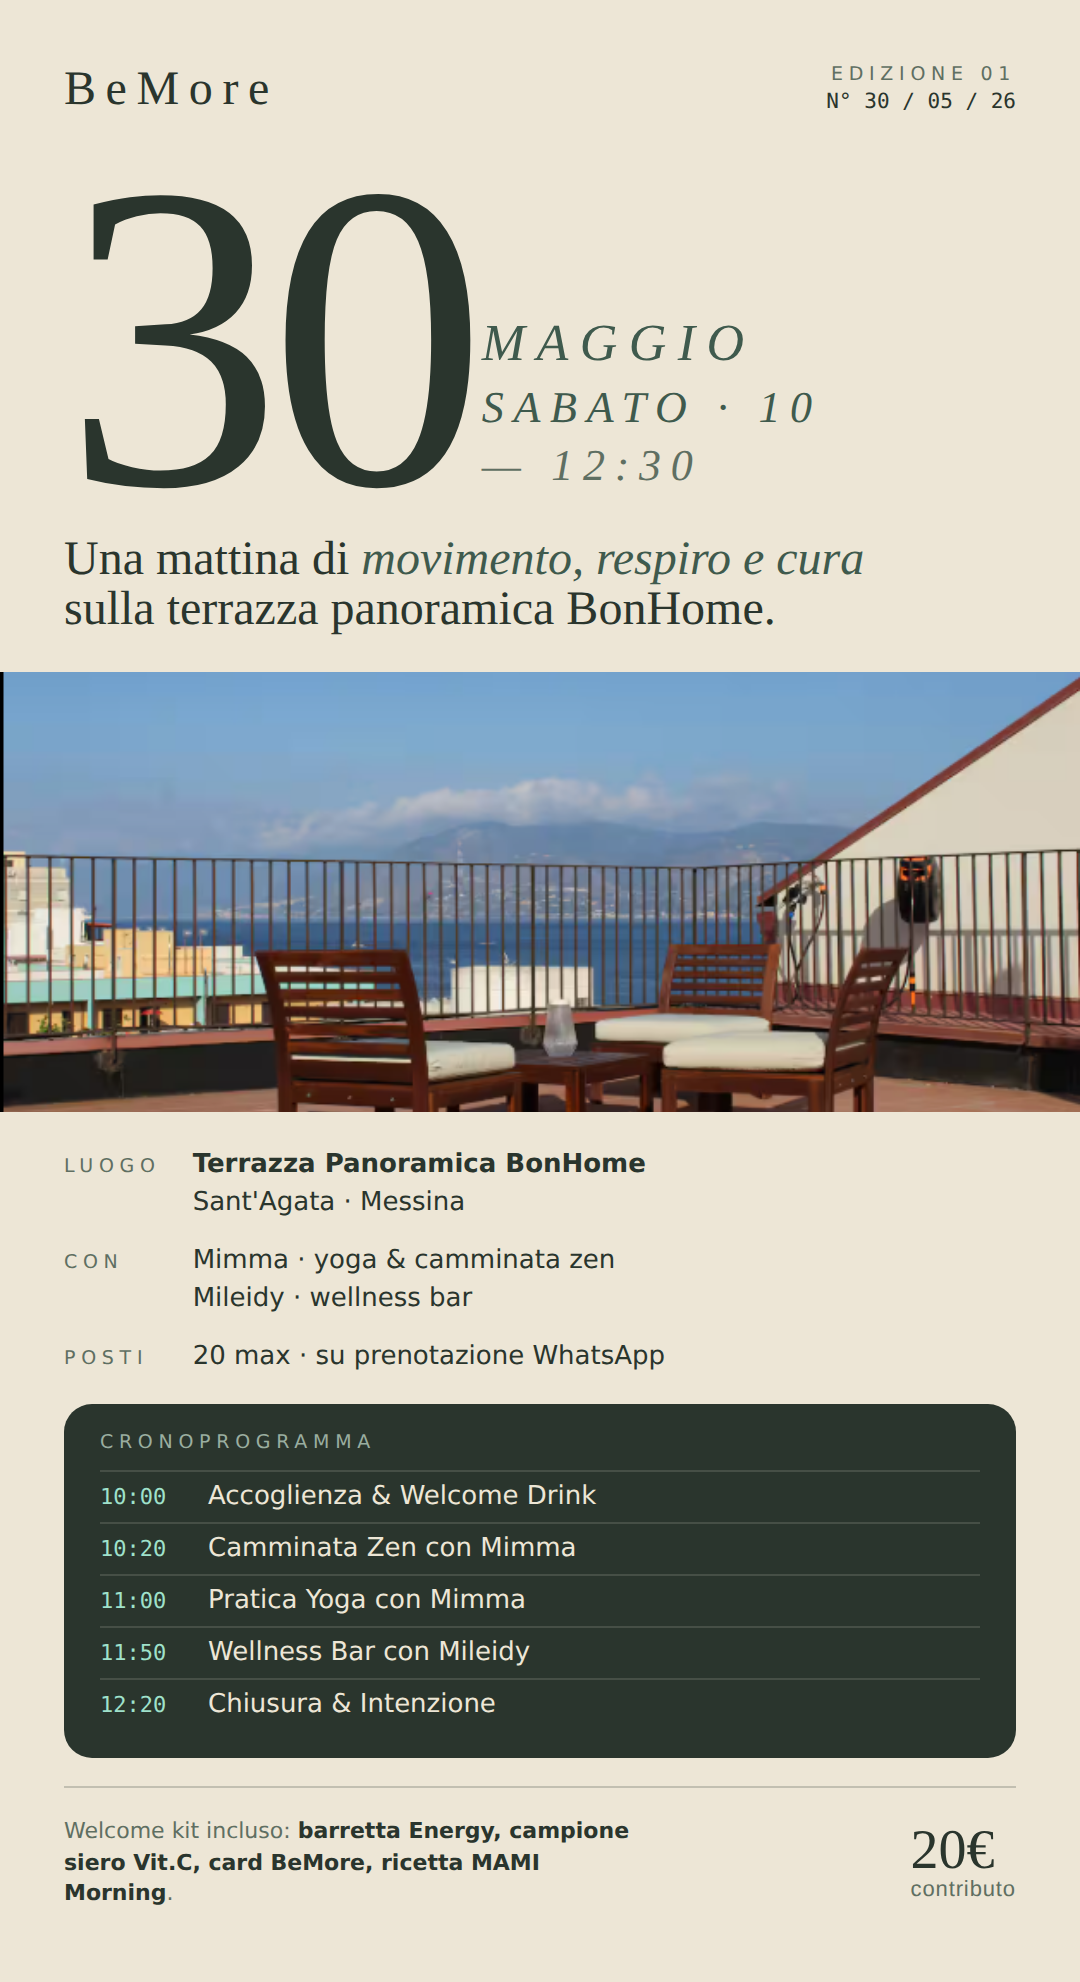
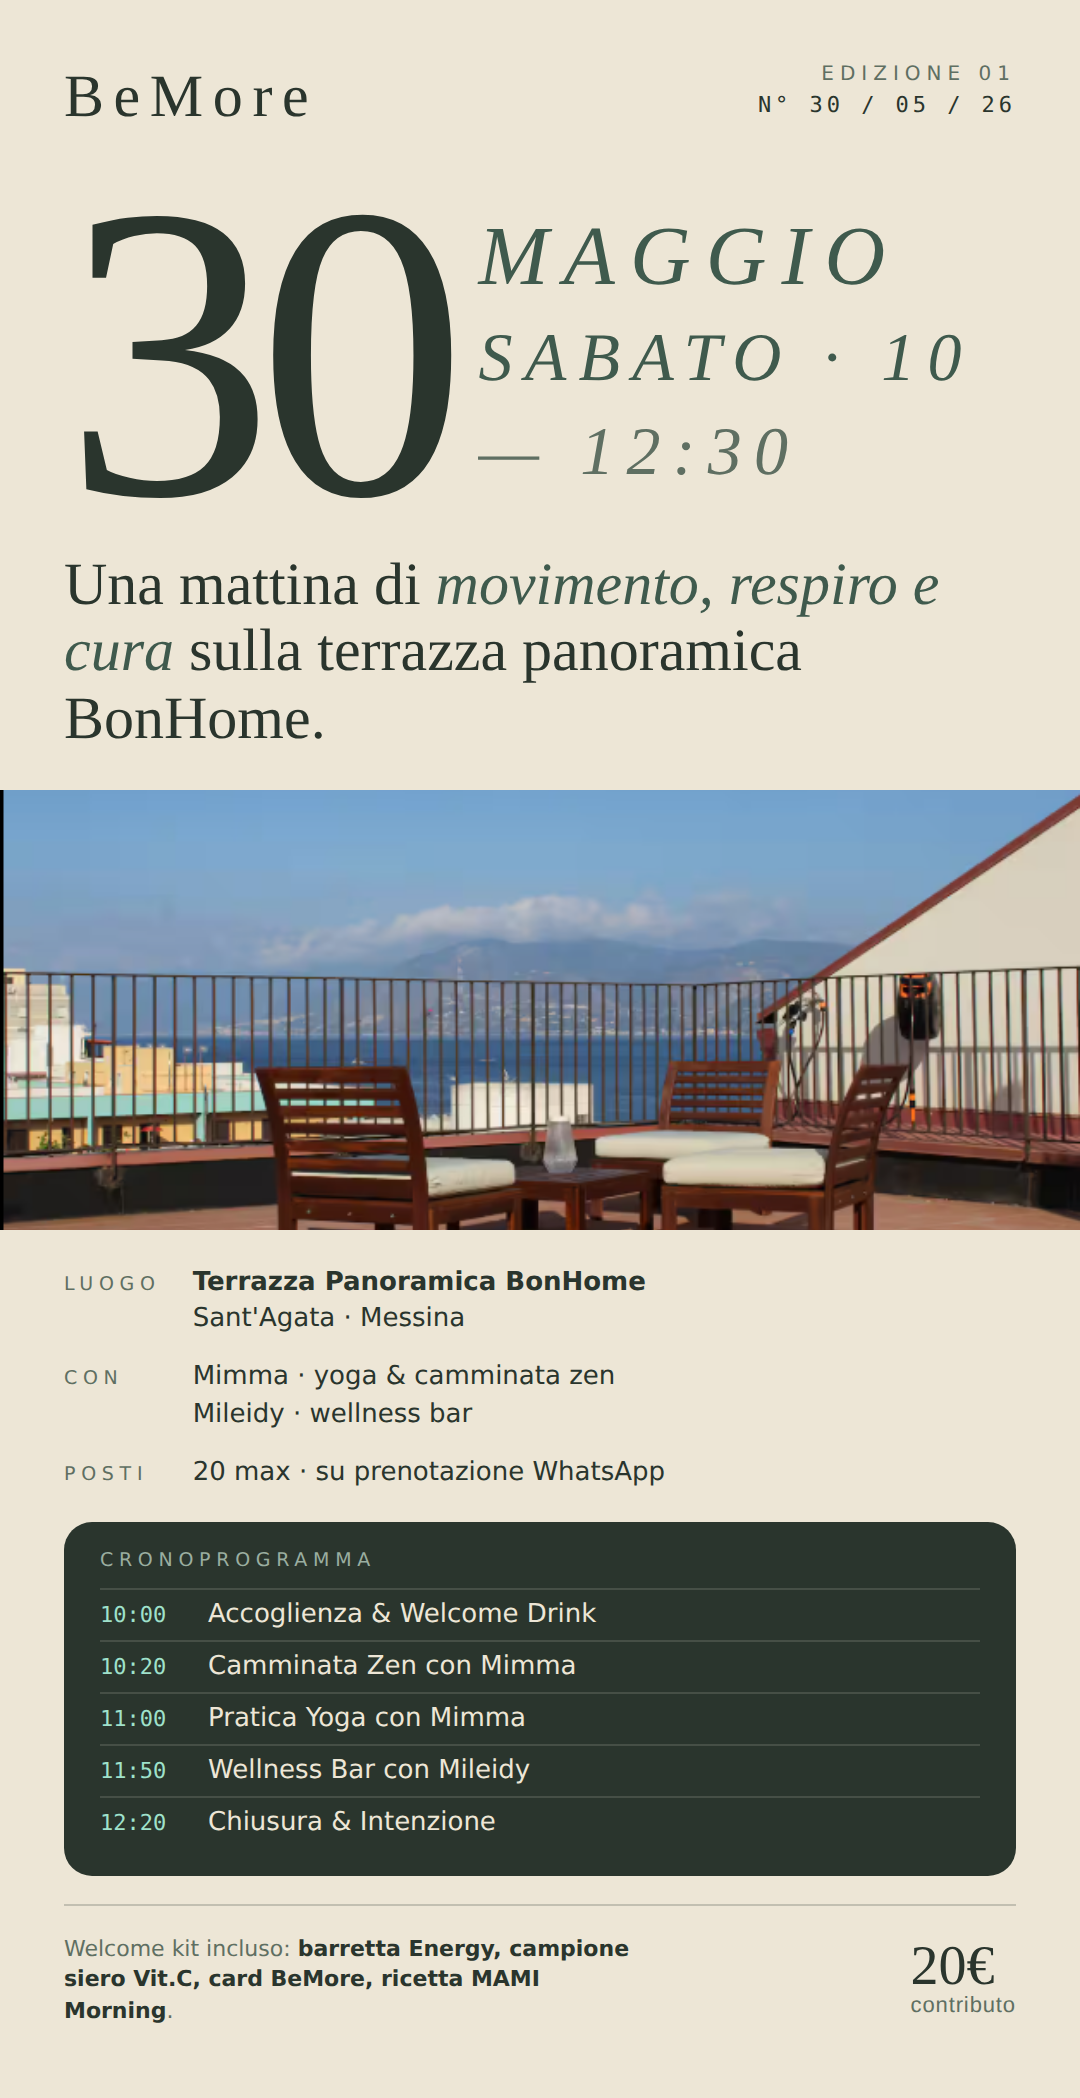
Allinea tipografia data allo stile originale: numero Italiana grande, BeMore in evidenza, data Cormorant italic spaziata su 3 righe

diff --git a/project/uploads/invito_30maggio_whatsapp.html b/project/uploads/invito_30maggio_whatsapp.html
@@ -27,21 +27,21 @@
 
   /* TOP BAR */
   .v3-top { display:flex; justify-content:space-between; align-items:flex-start; }
-  .v3-mark { font-family:'Italiana', serif; font-size: 24px; letter-spacing:.2em; color:#2A352D; }
+  .v3-mark { font-family:'Italiana', serif; font-size: 30px; letter-spacing:.16em; color:#2A352D; }
   .v3-stamp { text-align:right; }
-  .v3-stamp .ed { font-size: 9.5px; letter-spacing:.3em; text-transform:uppercase; color:#5F6F62; }
-  .v3-stamp .no { font-family:'DM Mono', monospace; font-size: 10.5px; color:#2A352D; margin-top: 2px; }
+  .v3-stamp .ed { font-size: 10px; letter-spacing:.3em; text-transform:uppercase; color:#5F6F62; }
+  .v3-stamp .no { font-family:'DM Mono', monospace; font-size: 11px; letter-spacing:.18em; color:#2A352D; margin-top: 3px; }
 
   /* BIG DATE */
-  .v3-hero { margin-top: 22px; position:relative; }
-  .v3-bigdate { display:flex; align-items:flex-end; gap: 4px; }
-  .v3-bigdate .d { font-family:'Italiana', serif; font-size: 218px; line-height: .82; letter-spacing: -0.03em; color:#2A352D; }
-  .v3-bigdate .ms { display:flex; flex-direction:column; justify-content:flex-end; padding-bottom: 14px; gap: 4px; }
-  .v3-bigdate .ms span { font-family:'Cormorant Garamond', serif; font-style: italic; font-weight: 300; color:#3F5A4D; letter-spacing: 0.22em; text-transform:uppercase; line-height: 1.15; }
-  .v3-bigdate .ms .m1 { font-size: 26px; }
-  .v3-bigdate .ms .m2 { font-size: 22px; }
-  .v3-bigdate .ms .m3 { font-size: 22px; color:#5F6F62; }
-  .v3-headline { font-family:'Cormorant Garamond', serif; font-size: 24px; line-height: 1.05; margin-top: 8px; font-weight: 400; max-width: 92%; }
+  .v3-hero { margin-top: 30px; position:relative; }
+  .v3-bigdate { display:flex; align-items:center; gap: 14px; }
+  .v3-bigdate .d { font-family:'Italiana', serif; font-size: 210px; line-height: .78; letter-spacing: -0.04em; color:#2A352D; }
+  .v3-bigdate .ms { display:flex; flex-direction:column; justify-content:center; gap: 13px; padding-bottom: 4px; }
+  .v3-bigdate .ms span { font-family:'Cormorant Garamond', serif; font-style: italic; font-weight: 300; color:#3F5A4D; letter-spacing: 0.18em; text-transform:uppercase; line-height: 1; white-space: nowrap; }
+  .v3-bigdate .ms .m1 { font-size: 42px; }
+  .v3-bigdate .ms .m2 { font-size: 34px; }
+  .v3-bigdate .ms .m3 { font-size: 34px; color:#5F6F62; }
+  .v3-headline { font-family:'Cormorant Garamond', serif; font-size: 30px; line-height: 1.12; margin-top: 16px; font-weight: 400; max-width: 95%; color:#2A352D; }
   .v3-headline em { font-style: italic; color:#3F5A4D; }
 
   /* FOTO */
